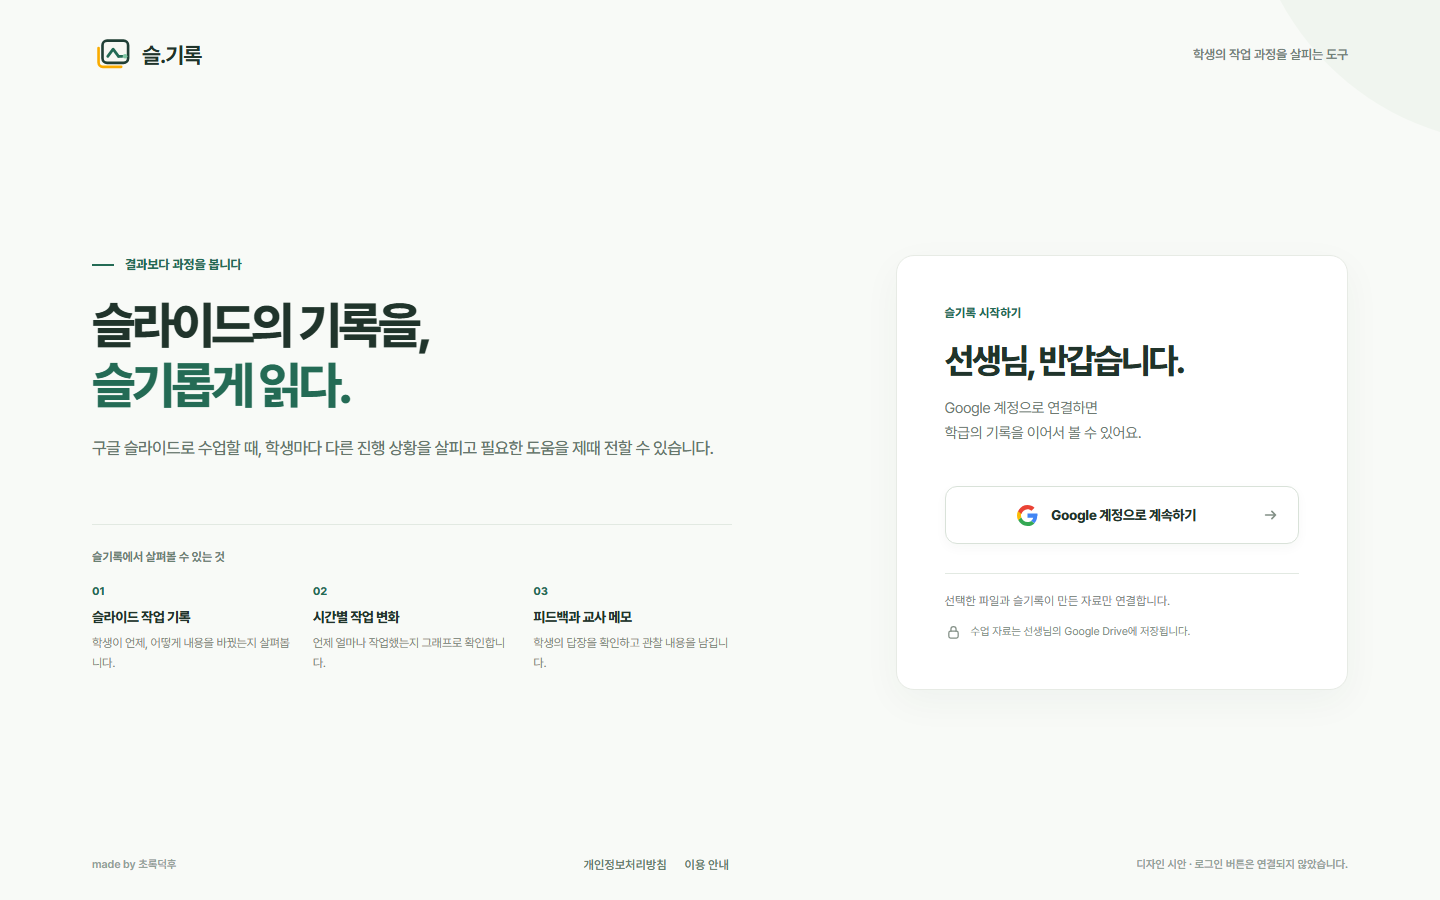
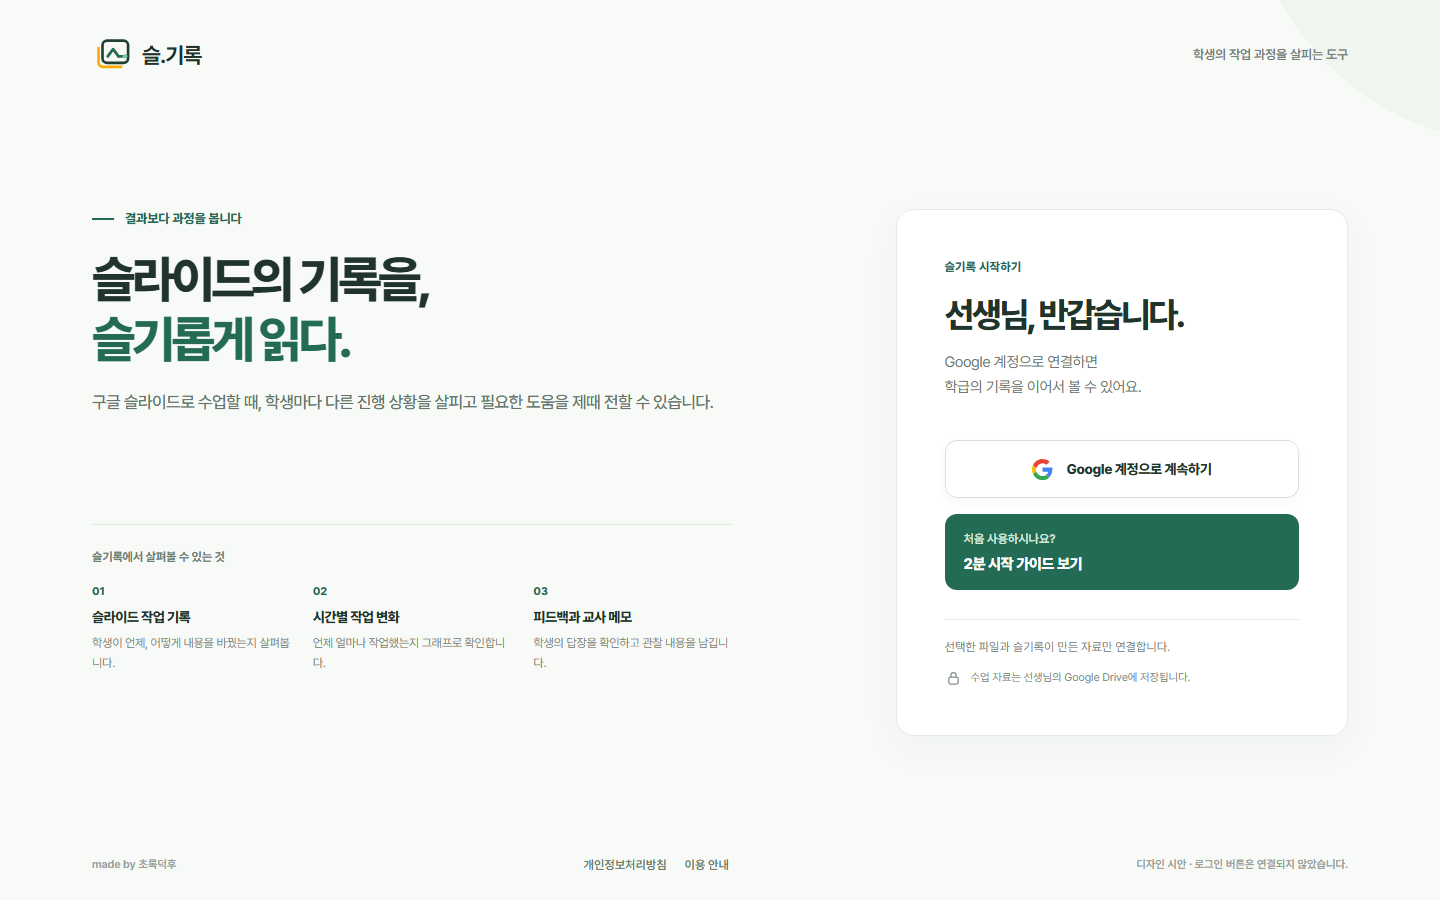
Highlight getting-started guide on sign-in

diff --git a/src/components/GuideCarousel.js b/src/components/GuideCarousel.js
@@ -8,7 +8,7 @@ import styles from './GuideCarousel.module.css';
 
 const cards = [
   { label: '시작', title: '첫 슬라이드 수업,\n이 순서대로 시작해요.', body: '학급을 만들고 과제를 배부한 뒤, 수업 중의 변화를 살펴보고 필요한 학생에게 피드백을 전합니다.', visual: 'cover' },
-  { label: '01 · 연결', title: '선생님의 Google 계정으로 연결해요.', body: '학급 명단과 수업 기록은 선생님의 Google Drive에 저장됩니다. 출석번호가 있는 명단을 준비해 주세요. 예시 슬라이드는 없어도 됩니다.', points: ['Google 계정으로 계속하기를 누르세요.', '학생 접속 화면에는 별도 로그인이 없어요. Google 슬라이드는 학교 계정으로 열어요.'], shots: [{ src: 'home', caption: '메인 화면 · Google 계정으로 계속하기', alt: '메인 화면의 Google 계정으로 계속하기 버튼', x: 78, y: 57 }] },
+  { label: '01 · 연결', title: '선생님의 Google 계정으로 연결해요.', body: '학급 명단과 수업 기록은 선생님의 Google Drive에 저장됩니다. 출석번호가 있는 명단을 준비해 주세요. 예시 슬라이드는 없어도 됩니다.', points: ['Google 계정으로 계속하기를 누르세요.', '학생 접속 화면에는 별도 로그인이 없어요. Google 슬라이드는 학교 계정으로 열어요.'], shots: [{ src: 'home', caption: '메인 화면 · Google 계정으로 계속하기', alt: '메인 화면의 Google 계정으로 계속하기 버튼', x: 78, y: 52 }] },
   { label: '02 · 학급', title: '우리 반과 학생 명단을 등록해요.', body: '첫 학급 등록하기에서 학급 이름을 적고, 학생을 한 줄에 한 명씩 입력합니다. 번호와 이름 또는 가명을 함께 넣어 주세요.', points: ['학급 목록에서 첫 학급 등록하기를 누르세요.', '예: 1 김누리, 4 송명신'], shots: [{ src: 'first-class', caption: '① 학급 목록에서 시작', alt: '첫 학급 등록하기 버튼이 있는 학급 목록', x: 50, y: 64 }, { src: 'create-class', caption: '② 학급 이름과 명단 입력', alt: '학급 이름과 학생 명단을 입력하는 창', x: 51, y: 54 }] },
   { label: '03 · 과제', title: '예시 또는 빈 슬라이드로 배부해요.', body: '새 과제 만들기에서 제목을 입력하고 예시 슬라이드 사용 또는 빈 슬라이드로 시작을 고릅니다. 키워드는 선택 사항이며 나중에도 바꿀 수 있습니다.', points: ['새 과제 만들기를 누르세요.', '배부할 학생과 접속 방식을 확인한 뒤 생성하세요.'], shots: [{ src: 'classroom', caption: '① 학급 화면에서 새 과제 만들기', alt: '학급 과제 목록 오른쪽의 새 과제 만들기 버튼', x: 88, y: 36 }, { src: 'create-assignment', caption: '② 빈 슬라이드로 시작 선택', alt: '예시 슬라이드 사용과 빈 슬라이드로 시작 중 선택하는 창', x: 52, y: 37 }] },
   { label: '04 · 학생 접속', title: '학생에게 링크나 QR을 보내요.', body: '과제의 학생 접속 안내에서 기본 링크를 복사하거나 QR을 보여 주세요. 공통 링크를 받은 학생은 자기 이름을 선택해 슬라이드를 엽니다.', points: ['링크 복사 또는 QR 다운로드를 사용하세요.', '필요하면 학생별 링크·QR 방식도 선택할 수 있어요.'], shots: [{ src: 'student-share', caption: '① 교사 화면에서 링크·QR 안내', alt: '학생 접속 안내 창의 QR과 링크 복사 버튼', x: 36, y: 57 }, { src: 'student-view', caption: '② 학생 화면에서 이름 선택', alt: '학생이 자신의 이름을 선택하는 접속 화면', x: 50, y: 49 }] },

diff --git a/src/components/EntryScreen.js b/src/components/EntryScreen.js
@@ -15,14 +15,6 @@ function GoogleMark() {
   );
 }
 
-function ArrowIcon() {
-  return (
-    <svg aria-hidden="true" width="18" height="18" viewBox="0 0 20 20" fill="none">
-      <path d="M4 10h11m-4-4 4 4-4 4" stroke="currentColor" strokeWidth="1.8" strokeLinecap="round" strokeLinejoin="round" />
-    </svg>
-  );
-}
-
 export default function EntryScreen({ onLogin, preview = false, loading = false, children }) {
   return (
     <main className={styles.page}>
@@ -62,12 +54,11 @@ export default function EntryScreen({ onLogin, preview = false, loading = false,
             >
               <GoogleMark />
               <span aria-live="polite">{loading ? 'Google 연결 준비 중...' : 'Google 계정으로 계속하기'}</span>
-              <ArrowIcon />
             </button>
 
             {children}
 
-            <Link href="/guide" className={styles.guideLink}>처음이신가요? 2분 시작 가이드 보기 <span aria-hidden="true">↗</span></Link>
+            <Link href="/guide" className={styles.guideLink}><span>처음 사용하시나요?</span><strong>2분 시작 가이드 보기</strong></Link>
 
             <div className={styles.supported}>
               선택한 파일과 슬기록이 만든 자료만 연결합니다.

diff --git a/src/components/EntryScreen.module.css b/src/components/EntryScreen.module.css
@@ -232,17 +232,10 @@
   cursor: default;
 }
 
-.googleButton svg:last-child {
-  margin-left: auto;
-  color: #839087;
-}
-
-.googleButton svg:first-child {
-  margin-left: auto;
-}
-
-.guideLink { display: block; margin-top: 18px; color: #246b55; font-size: 13px; font-weight: 720; text-align: center; text-decoration: none; }
-.guideLink:hover { text-decoration: underline; }
+.guideLink { display: flex; flex-direction: column; justify-content: center; gap: 5px; min-height: 76px; margin-top: 16px; padding: 14px 19px; border-radius: 12px; background: #246b55; color: #fff; text-decoration: none; }
+.guideLink span { color: #d4e8db; font-size: 12px; font-weight: 600; }
+.guideLink strong { font-size: 15px; font-weight: 760; letter-spacing: -0.025em; }
+.guideLink:hover { background: #1d5946; }
 .guideLink:focus-visible { outline: 3px solid #a4ceb0; outline-offset: 3px; }
 
 .googleButton:focus-visible {
